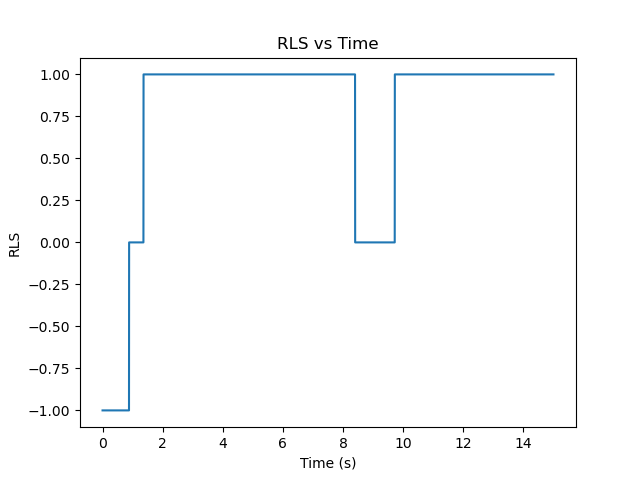
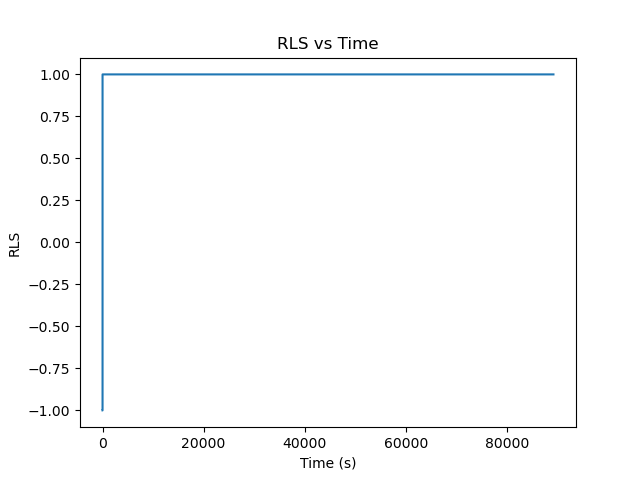
improved python model

diff --git a/Abaqus_PBF_structure_model_python_trial/model.py b/Abaqus_PBF_structure_model_python_trial/model.py
@@ -5,15 +5,46 @@ import math as m
 import sys
 
 # read temperature history:
+# data = np.genfromtxt('../input/amp_temp_amprin_and_HT.csv', delimiter=',')
 # data = np.genfromtxt('../input/Abaqus_one_elem_tests/amp_temp_amprint.txt', delimiter=',')
-data = np.genfromtxt('../input/Abaqus_one_elem_tests/one_elem.csv', delimiter=',')
-t = data[:,0] # time
-T = data[:,1] # temperature
+# data = np.genfromtxt('../input/Abaqus_one_elem_tests/one_elem.csv', delimiter=',')
+# data = np.genfromtxt('../input/cooling.csv', delimiter=',')
+# data = np.genfromtxt('../input/XRD_test.csv', delimiter=',')
+# data = np.genfromtxt('../input/half_hatch_rehatched/Temperature_Element_at_heigt_1.98.csv', delimiter=',')
+# data = np.genfromtxt('../input/output_6_scans_half_power/Temperature_Element_at_heigt_0.06.csv', delimiter=',')
+# data = np.genfromtxt('../input/240_6_rescans/Temperature_Element_at_heigt_8.28.csv', delimiter=',')
+data = np.genfromtxt('../input/amp_temp_amprin_and_HT900.csv', delimiter=',')
+
+
+
+t_input = data[:,0] # time
+T_input = data[:,1] # temperature
+
+t = np.array(t_input[0])
+
+# if a given time step is larger than min_t_step, we interpolate between the two points with min_t_step length time steps,
+# otherwise we interpolate with a time step that is 1/3 of the given time step:
+min_t_step = 100
+for i in range(1, len(t_input)):
+    if t_input[i] - t_input[i-1] > min_t_step:
+        t = np.append(t, np.arange(t_input[i-1] + min_t_step, t_input[i], min_t_step))
+    else:
+        min_t_step_c = (t_input[i]-t_input[i-1])/3 + 0.0001
+        t = np.append(t, np.arange(t_input[i-1] + min_t_step_c, t_input[i], min_t_step_c))
+
+    t = np.append(t, t_input[i])
+
+T = np.interp(t, t_input, T_input)
+
+    
+# print('Time:', t)
+# print('Temperature:', T)
+# sys.exit()
 
 #Discretize the given temperature history with smaller time steps using interpolation:
-time_step = 0.001
-t = np.arange(t[0], t[-1], time_step)
-T = np.interp(t, data[:,0], data[:,1])
+# time_step = 0.001
+# t = np.arange(t[0], t[-1], time_step)
+# T = np.interp(t, data[:,0], data[:,1])
 
 # initialize arrays:
 beta_f = np.zeros(len(t))
@@ -44,14 +75,20 @@ alpha_eq = data[:,0]
 
 # KM parameters:
 b_km = 0.005
-T_mart = 851
+T_mart = 575
 
-# Mart to alpha + beta transformation:
-T_mart_dis = 400
+# Mart to alpha + beta transformation data:
+T_mart_dis = 350
 data = np.genfromtxt('./JMAK_params_mart_to_AandB.csv', delimiter=',', skip_header=1)
 k_mart_to_AandB = data[:,0]
 n_mart_to_AandB = data[:,1]
 temp_jmak_mart_to_AandB = data[:,2]
+
+data = np.genfromtxt('./Equilibrium_mart_fraction.csv', delimiter=',', skip_header=1)
+T_mart_eq = data[:,1]
+mart_eq = data[:,0]
+
+k = 0
 
 for i in range(1, len(t)): #iterate over all time steps
 
@@ -96,12 +133,21 @@ for i in range(1, len(t)): #iterate over all time steps
             RLS[i] = 1 # keep solid state
 
             # if it is solid, we calculate phase transformations depending on heating:
-            if dT/dt >= -20.0 and dT/dt <= 0: # JMAK model alpha to beta:
-                # calculate alpha equilibrium phase fraction:
-                # alpha_eq_i = 0 # alpha equilibrium phase fractio
-                # P = [-31188.514, 170526.26, -388991.69, 471927.45, -315178.49, 99079.891, 1667.1991, -9726.8403, 1884.7280]
-                # for n in range(0, 9):
-                #     alpha_eq_i += P[n]*(T[i]/1000)**(8-n)
+
+            #data for some transformations:
+            f_mart_eq = np.interp(T[i], T_mart_eq, mart_eq)
+            # f_mart_eq = ( 1 - m.exp( -b_km*(T_mart - T[i]) ) ) * (beta_f[i-1]+mart_f[i-1])
+            beta_eq_i = 1 - np.interp(T[i], T_alpha_eq, alpha_eq)
+            alpha_eq_i = np.interp(T[i], T_alpha_eq, alpha_eq)
+
+            #in case there is no phase transformation, we keep the phase fractions the same:
+            alpha_f[i] = alpha_f[i-1]
+            beta_f[i] = beta_f[i-1]
+            mart_f[i] = mart_f[i-1]
+
+            if dT/dt > -20.0 and dT/dt < 0 and beta_f[i-1] > beta_eq_i: # JMAK model beta to alpha
+
+                # f_tot = beta_f[i-1] + alpha_f[i-1]
 
                 alpha_eq_i = np.interp(T[i], T_alpha_eq, alpha_eq)
 
@@ -111,63 +157,79 @@ for i in range(1, len(t)): #iterate over all time steps
 
                 #Calculate Tau:
                 tau = ( -1/k_i*m.log(1 - (alpha_f[i-1]/alpha_eq_i)/(beta_f[i-1]+alpha_f[i-1]) ))**(1/n_i)
+                # tau = ( -1/k * m.log( (beta_f[i-1] - beta_eq_i * f_tot) / (f_tot * (1 - beta_eq_i)) ) ) ** 1/n_i
 
                 # print('tau:',tau)
 
                 # caculate change in alpha phase fraction:
                 alpha_f[i] = (1 - m.exp(-k_i * (tau+dt)**n_i)) * alpha_eq_i * (beta_f[i-1]+alpha_f[i-1])
+                # beta_f[i] = f_tot*(1 - (1 - m.exp(-k_i * (tau+dt)**n_i)) * (1 - beta_eq_i))
 
                 # calculate change in beta phase fraction:
-                beta_f[i] = 1 - alpha_f[i]
+                
+                # alpha_f[i] = f_tot - beta_f[i]
+                beta_f[i] = beta_f[i-1] - (alpha_f[i] - alpha_f[i-1])
                 mart_f[i] = mart_f[i-1]
 
-            if dT/dt <= -410.0 and mart_f[i-1] <= 1 and T[i] < T_mart: # KM model beta to martensite fast cooling:
-                
+            elif dT/dt <= -410.0 and beta_f[i-1] > beta_eq_i and T[i] < T_mart: # KM model beta to martensite fast cooling:
+                              
                 mart_f[i] = ( 1 - m.exp( -b_km*(T_mart - T[i]) ) ) * (beta_f[i-1]+mart_f[i-1])
                 beta_f[i] = beta_f[i-1] - (mart_f[i] - mart_f[i-1])
                 alpha_f[i] = alpha_f[i-1]
 
-            elif (dT/dt > -410.0) and dT/dt <= -20.0 and mart_f[i-1] <= 1 and T[i] < T_mart: # KM model beta to martensite slow cooling:
-                
-                beta_eq_i = 1 - np.interp(T[i], T_alpha_eq, alpha_eq)
+            elif dT/dt > -410.0 and dT/dt <= -20.0 and beta_f[i-1] > beta_eq_i and T[i] < T_mart: # KM model beta to martensite slow cooling:
 
                 mart_f[i] = ( 1 - m.exp( -b_km*(T_mart - T[i]) ) ) * (beta_f[i-1]+mart_f[i-1]-beta_eq_i)
                 beta_f[i] = beta_f[i-1] - (mart_f[i] - mart_f[i-1])
                 alpha_f[i] = alpha_f[i-1]
 
-            # elif (dT/dt >= -0.0001 and T[i] >= T_mart_dis): # JMAK model of mart to alpha + beta transformation:
+            elif (dT/dt >= 0): 
                 
-            #     # linearly interpolate JMAK parameters k_i and n_i according to current temperature:
-            #     k_mart_i = np.interp(T[i], temp_jmak_mart_to_AandB, k_mart_to_AandB)
-            #     n_mart_i = np.interp(T[i], temp_jmak_mart_to_AandB, n_mart_to_AandB)
+                if mart_f[i-1] > f_mart_eq and T[i] > T_mart_dis: # JMAK model of mart to alpha + beta transformation:
 
-            #     #Calculate Tau:
-            #     tau_mart_i = ( -1/k_mart_i * m.log( (mart_f[i-1] - f_mart_eq) / (1 - f_mart_eq) )) ** (1/n_mart_i)
+                    # linearly interpolate JMAK parameters k_i and n_i according to current temperature:
+                    k_mart_i = np.interp(T[i], temp_jmak_mart_to_AandB, k_mart_to_AandB)
+                    n_mart_i = np.interp(T[i], temp_jmak_mart_to_AandB, n_mart_to_AandB)
 
-            #     f_mart_eq = 0.5 * (1 - m.tanh( (450 - T[i]) / 80 ))
+                    #Calculate Tau:
+                    tau_mart_i = ( -1/k_mart_i * m.log( (mart_f[i-1] - f_mart_eq) / (1-f_mart_eq) )) ** (1/n_mart_i)
+                    # tau_mart_i = (-1/k_mart_i * m.log(1 - (mart_f[i-1] - f_mart_eq)/(1- alpha_f[i-1] - f_mart_eq)) )**(1/n_mart_i)
 
-            #     # mart_f[i] = 1 - (1 - m.exp(-k_mart_i*(tau_mart_i+dt)**n_mart_i)) * (1 - f_mart_eq)
-            #     mart_f[i] = f_mart_eq - ( m.exp( -k_mart_i ( tau_mart_i +dt  )**n_mart_i) ) * (mart_f[i-1] + beta_f[i-1] - f_mart_eq)
+                    mart_f_inter = 1 - (1 - m.exp(-k_mart_i*(tau_mart_i+dt)**n_mart_i)) * (1 - f_mart_eq)
+                    # mart_f_inter = f_mart_eq - ( m.exp( -k_mart_i * ( tau_mart_i + dt )**n_mart_i) ) * (mart_f[i-1] + beta_f[i-1] - f_mart_eq)
 
-            #     alpha_f[i] = alpha_f[i-1] + (mart_f[i-1] - mart_f[i])*f_mart_eq
-            #     beta_f[i] = beta_f[i-1] + (mart_f[i-1] - mart_f[i])*(1 - f_mart_eq)
+                    alpha_f_inter = alpha_f[i-1] + (mart_f[i-1] - mart_f_inter) * alpha_eq_i
+                    beta_f_inter = beta_f[i-1] + (mart_f[i-1] - mart_f_inter) * beta_eq_i
+                
+                else:
+                    mart_f_inter = mart_f[i-1]
+                    alpha_f_inter = alpha_f[i-1]
+                    beta_f_inter = beta_f[i-1]
 
-            else: # if no phase transfpormation happens, they stay the same
 
-                alpha_f[i] = alpha_f[i-1]
-                beta_f[i] = beta_f[i-1]
-                mart_f[i] = mart_f[i-1]
+                if beta_f_inter <= beta_eq_i and (alpha_f_inter + mart_f_inter) >= 0.001: #Parabolic growth of alpha to beta transformation
+                    
+                    f_diss = 2.2 * (10**-31) * ((T[i] + 273) **9.89)
+                    t_star = (beta_f[i-1]/ (beta_eq_i*f_diss))**2
+                    t_crit = f_diss ** -2
 
-        # if dT/dt <= -410.0:
-        #     # KM model beta to martensite:
-        #     mart_f[i] = (1 - m.exp(-b_km*(T_mart-T[i])))*(beta_f[i-1]+mart_f[i-1])
-        #     beta_f[i] = beta_f[i-1] - mart_f[i]
+                    if 0 < dt + t_star and dt + t_star < t_crit:
+                        alpha_final = 1 - beta_eq_i * f_diss * m.sqrt(dt + t_star)
+                    elif dt + t_star >= t_crit:
+                        alpha_final = 1 - beta_eq_i
 
-        # if dT/dt < -20.0 and dT/dt >= -410.0:
-        #     # KM model beta to martensite:
-        #     mart_f[i] = (1 - m.exp(-b_km*(T_mart-T[i])))*(beta_f[i-1]+mart_f[i-1])
-        #     beta_f[i] = beta_f[i-1] - mart_f[i]
+                    alpha_inc = alpha_final - (alpha_f_inter + mart_f_inter)
+                    beta_inc = -alpha_inc
 
+                    alpha_f[i] = alpha_inc * alpha_f_inter / (alpha_f_inter + mart_f_inter) + alpha_f_inter
+                    mart_f[i] = alpha_inc * mart_f_inter / (alpha_f_inter + mart_f_inter) + mart_f_inter
+                    beta_f[i] = beta_f_inter + beta_inc
+
+                else:
+                    alpha_f[i] = alpha_f_inter
+                    beta_f[i] = beta_f_inter
+                    mart_f[i] = mart_f_inter
+ 
 # End of time-series iteration
 
 # Plots:
@@ -202,6 +264,7 @@ ax2.plot(t, alpha_f, 'r-')
 ax2.plot(t, beta_f, 'r--')
 ax2.plot(t, mart_f, 'r:')
 ax2.set_ylabel('Phase Fraction', color='r')
+ax2.set_ylim(0, 1)
 ax2.tick_params('y', colors='r')
 
 ax1.legend(['Temperature'], loc='upper left')
@@ -209,6 +272,26 @@ ax2.legend(['Alpha', 'Beta', 'Mart'], loc='upper right')
 
 fig.tight_layout()
 plt.savefig('phase_fractions.png')
+
+
+#plot only alpha and beta
+plt.figure()
+fig, ax1 = plt.subplots()
+ax1.plot(t, T, 'b-')
+ax1.set_xlabel('time (s)')
+ax1.set_ylabel('Temperature (°C)', color='b')
+ax1.tick_params('y', colors='b')
+
+ax2 = ax1.twinx()
+ax2.plot(t, alpha_f + mart_f, 'r-')
+ax2.set_ylabel('Phase Fraction', color='r')
+ax2.tick_params('y', colors='r')
+ax2.set_ylim(0, 1)
+ax1.legend(['Temperature'], loc='upper left')
+ax2.legend(['Alpha'], loc='upper right')
+
+fig.tight_layout()
+plt.savefig('only_alpha.png')
 
 
 # # plot this function: alpha_eq_i += P[n]*(T[i]/1000)**(8-n)
